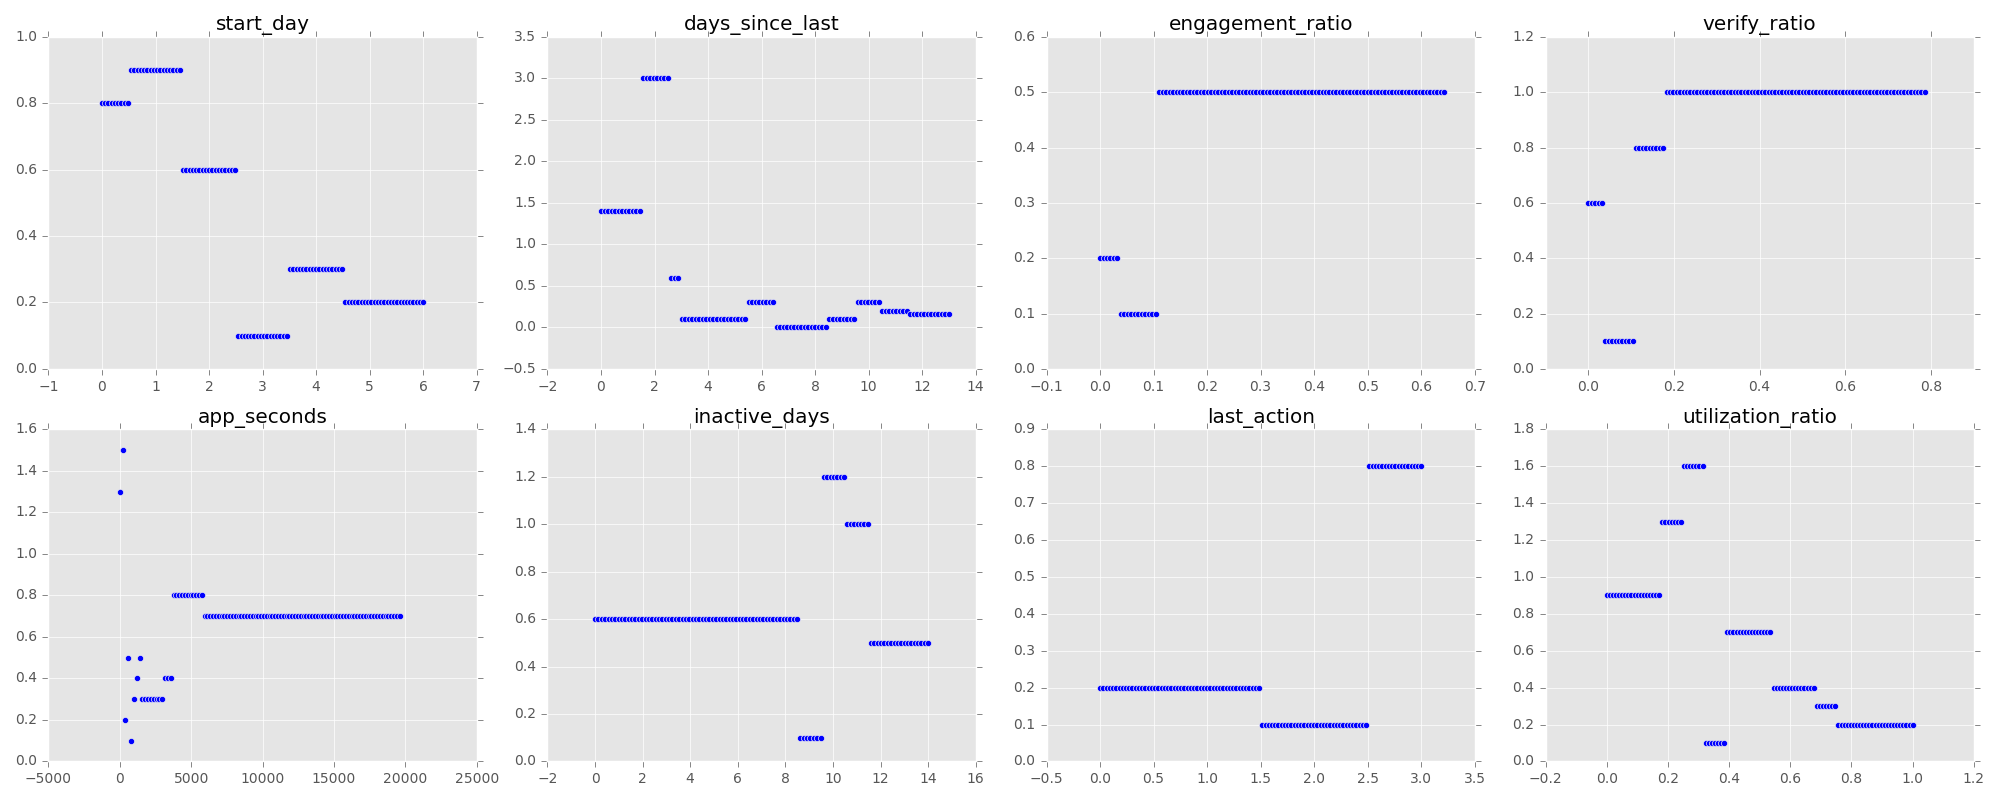
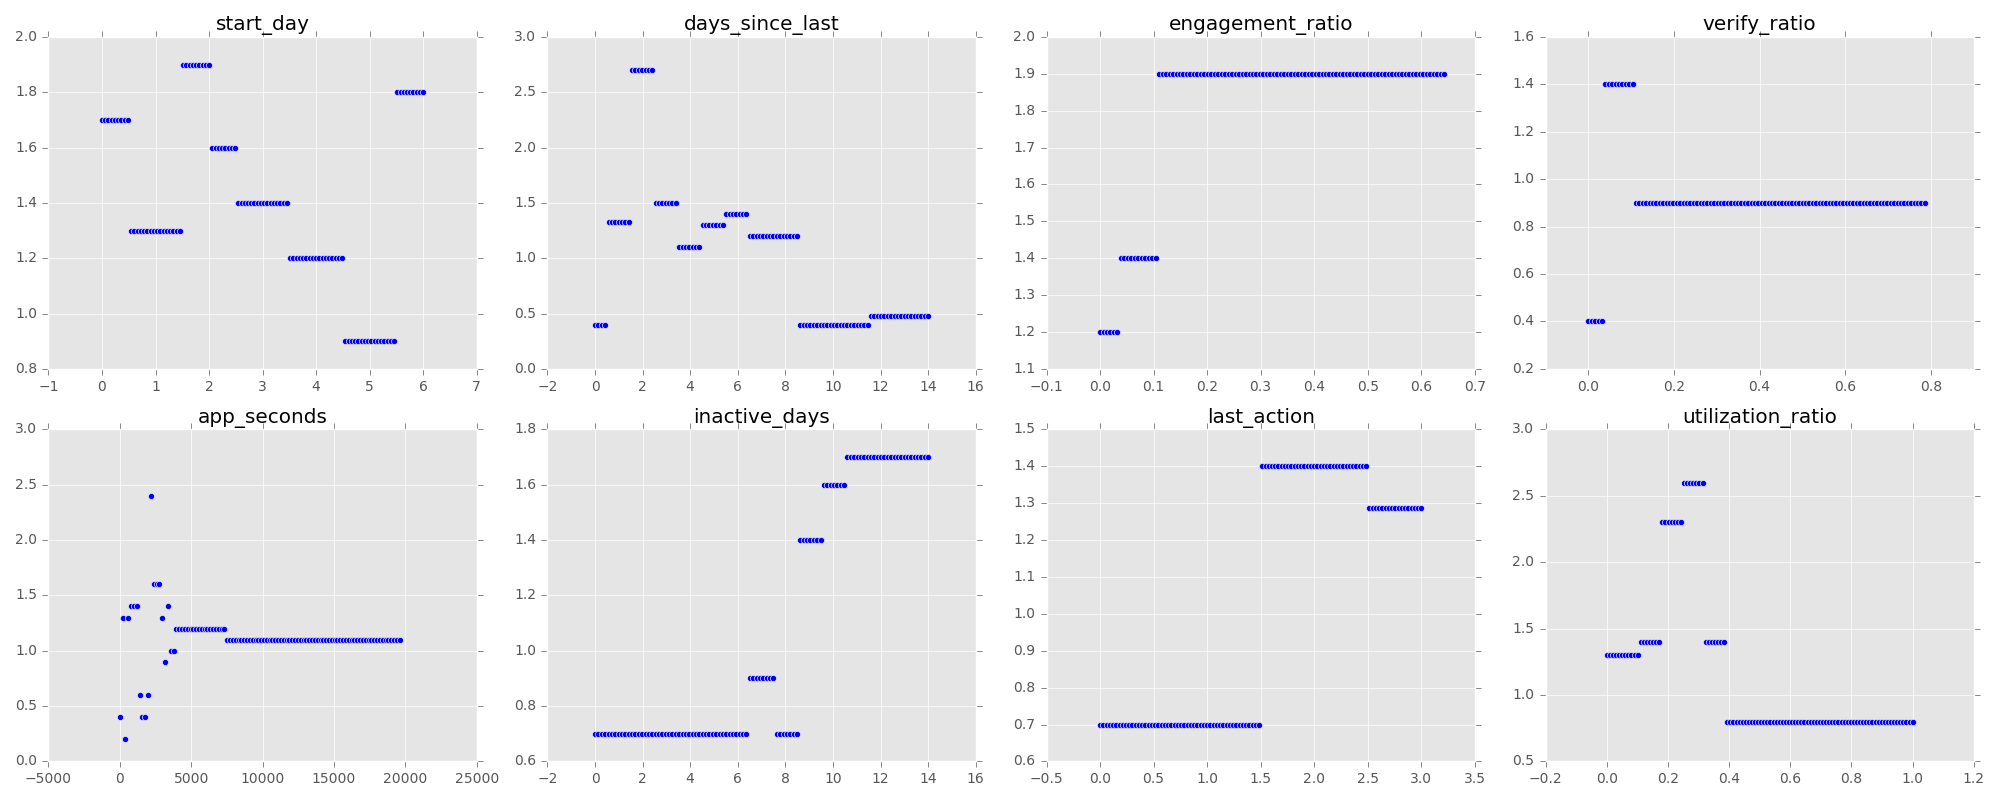
updated to send in

diff --git a/part_2/ibotta_code/ml.py b/part_2/ibotta_code/ml.py
@@ -180,7 +180,6 @@ def train_rfr_model():
         del df['redeemed']
     y = df.pop('future_redemptions').values
     X = df.values
-    print X.shape
     X_train, X_test, y_train, y_test = train_test_split(X, y, random_state=42)
     rf = RandomForestRegressor(n_jobs=-1, random_state=1)
     rf.fit(X_train, y_train)
@@ -201,11 +200,13 @@ def train_ols():
 
 
 def test_feature_ranges():
+    print 'Testing feature ranges. This may take a while...'
     df = pd.read_pickle('../data/df.pickle')
     del df['redeemed']
-    rf = train_rfr_model(df)
+    rf = train_rfr_model()
     del df['future_redemptions']
     results = pd.DataFrame(columns=['feature', 'value', 'prediction'])
+
     for i, col in enumerate(df.columns):
         col_means = [df[x].mean() for x in df.columns]
         col_range = np.linspace(df[col].min(), df[col].max(), 100)
@@ -218,13 +219,15 @@ def test_feature_ranges():
     results.to_pickle('../data/results.pickle')
 
 
-def main_ml():
+def main():
     if not os.path.isfile('../data/df.pickle'):
         get_data()
     train_models()
     train_rfc_model()
     train_ols()
+    if not os.path.isfile('../data/results.pickle'):
+        test_feature_ranges()
     plot_feature_ranges()
 
 if __name__ == '__main__':
-    main_ml()
+    main()

diff --git a/part_2/ibotta_code/eda.py b/part_2/ibotta_code/eda.py
@@ -3,7 +3,6 @@ plt.style.use('ggplot')
 import pandas as pd
 import subprocess
 
-
 def plot_scatter_matrix():
     df = pd.read_pickle('../data/df.pickle')
     cols = [x for x in df.columns if x != 'future_redemptions']
@@ -16,7 +15,7 @@ def plot_scatter_matrix():
     plt.ylim(0, df['future_redemptions'].max() * 1.05)
     plt.tight_layout()
 
-    save_name = 'images/scatter_matrix.png'
+    save_name = '../images/scatter_matrix.png'
     plt.savefig(save_name)
     plt.close()
     subprocess.Popen(['open', save_name])
@@ -27,10 +26,7 @@ def plot_feature_ranges():
     del df['redeemed']
     del df['future_redemptions']
 
-    if not os.path.isfile('data/results.pickle'):
-        test_feature_ranges()
-
-    results = pd.read_pickle('data/results.pickle')
+    results = pd.read_pickle('../data/results.pickle')
     fig, axs = plt.subplots(2, 4, figsize=(20, 8))
     for col, ax in zip(df.columns, axs.flatten()):
         x = results['value'][results['feature'] == col]
@@ -39,7 +35,7 @@ def plot_feature_ranges():
         ax.set_title(col)
 
     plt.tight_layout()
-    save_name = 'images/feature_ranges.png'
+    save_name = '../images/feature_ranges.png'
     plt.savefig(save_name)
     plt.close()
     subprocess.Popen(['open', save_name])
